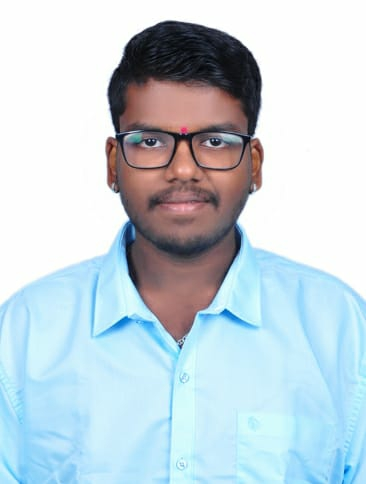
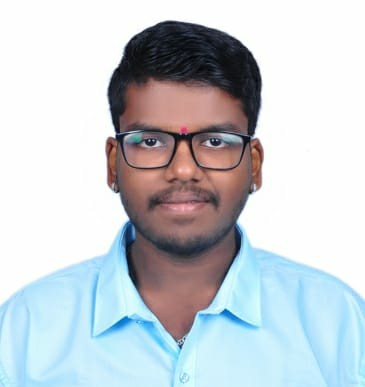
Team Image Updated

diff --git a/AindraNewWebsite_Final/pages/about/components/TeamSection.tsx b/AindraNewWebsite_Final/pages/about/components/TeamSection.tsx
@@ -21,7 +21,7 @@ import vijayTeamImage from '../../../assets/Aindra_team/Vijay.jpg';
 import charanTeamImage from '../../../assets/Aindra_team/Charan.jpg';
 import abhyanandTeamImage from '../../../assets/Aindra_team/Abhyanand.jpg';
 import farhanTeamImage from '../../../assets/Aindra_team/Farhan.jpeg';
-import harshithaTeamImage from '../../../assets/Aindra_team/Harshitha.jpg';
+import harshithaTeamImage from '../../../assets/Aindra_team/Harshitha.png';
 import anilImage from '../../../assets/Anil.jpg';
 import arunImage from '../../../assets/Arun-Venkatesh.png';
 import drShantiImage from '../../../assets/Dr_shanti.jpeg';
